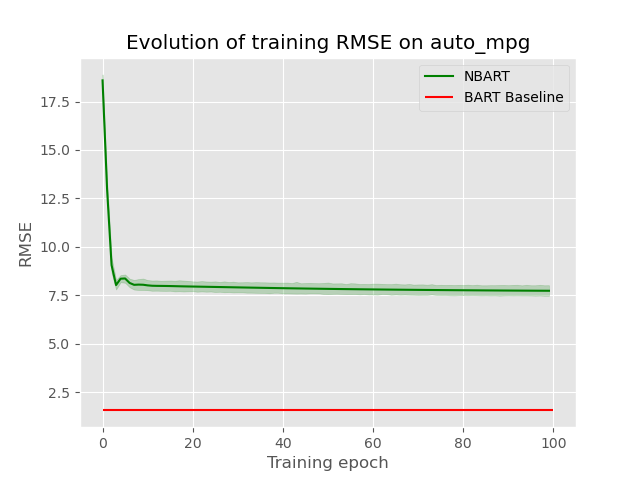
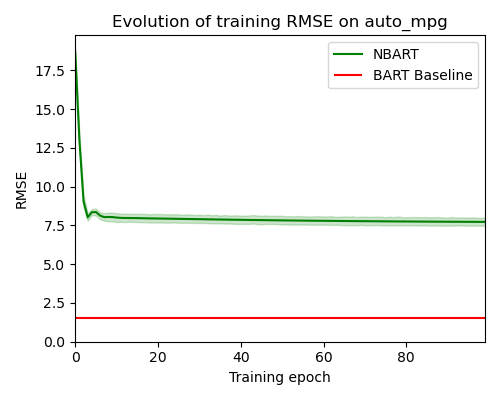
Update plots

diff --git a/plot.py b/plot.py
@@ -6,7 +6,7 @@ import numpy as np
 import pandas as pd
 import seaborn as sns
 
-plt.style.use('ggplot')
+#plt.style.use('ggplot')
 
 
 def get_logs(name, run):
@@ -69,10 +69,14 @@ if __name__ == "__main__":
         train_rmse[i * n: (i + 1) * n, 1] = nbart_data['test_rmse'][:, i]
     train_rmse = pd.DataFrame(train_rmse, columns=['Training epoch', 'RMSE'])
 
+    fig = plt.figure(figsize=(5, 4))
     sns.lineplot(data=train_rmse, x='Training epoch', y='RMSE', color='green', label='NBART')
-    plt.hlines(train_mean, 0, 100, colors='red', label='BART Baseline')
+    plt.hlines(train_mean, -1, 100, colors='red', label='BART Baseline')
+    plt.xlim(xmin=0, xmax=99)
+    plt.ylim(ymin=0)
     plt.title("Evolution of training RMSE on {}".format(args.name))
     plt.legend()
+    plt.tight_layout()
     plt.savefig('plots/{}_train.png'.format(args.name))
     plt.clf()
 
@@ -86,10 +90,14 @@ if __name__ == "__main__":
         val_rmse[i * n: (i + 1) * n, 1] = nbart_data['test_rmse'][:, i]
     val_rmse = pd.DataFrame(train_rmse, columns=['Training epoch', 'RMSE'])
 
+    fig = plt.figure(figsize=(5, 4))
     sns.lineplot(data=val_rmse, x='Training epoch', y='RMSE', color='blue', label='NBART')
-    plt.hlines(train_mean, 0, 100, colors='red', label='BART Baseline')
+    plt.hlines(train_mean, -1, 100, colors='red', label='BART Baseline')
+    plt.xlim(xmin=0, xmax=99)
+    plt.ylim(ymin=0)
     plt.title("Evolution of validation RMSE on {}".format(args.name))
     plt.legend()
+    plt.tight_layout()
     plt.savefig('plots/{}_val.png'.format(args.name))
     plt.clf()
 
